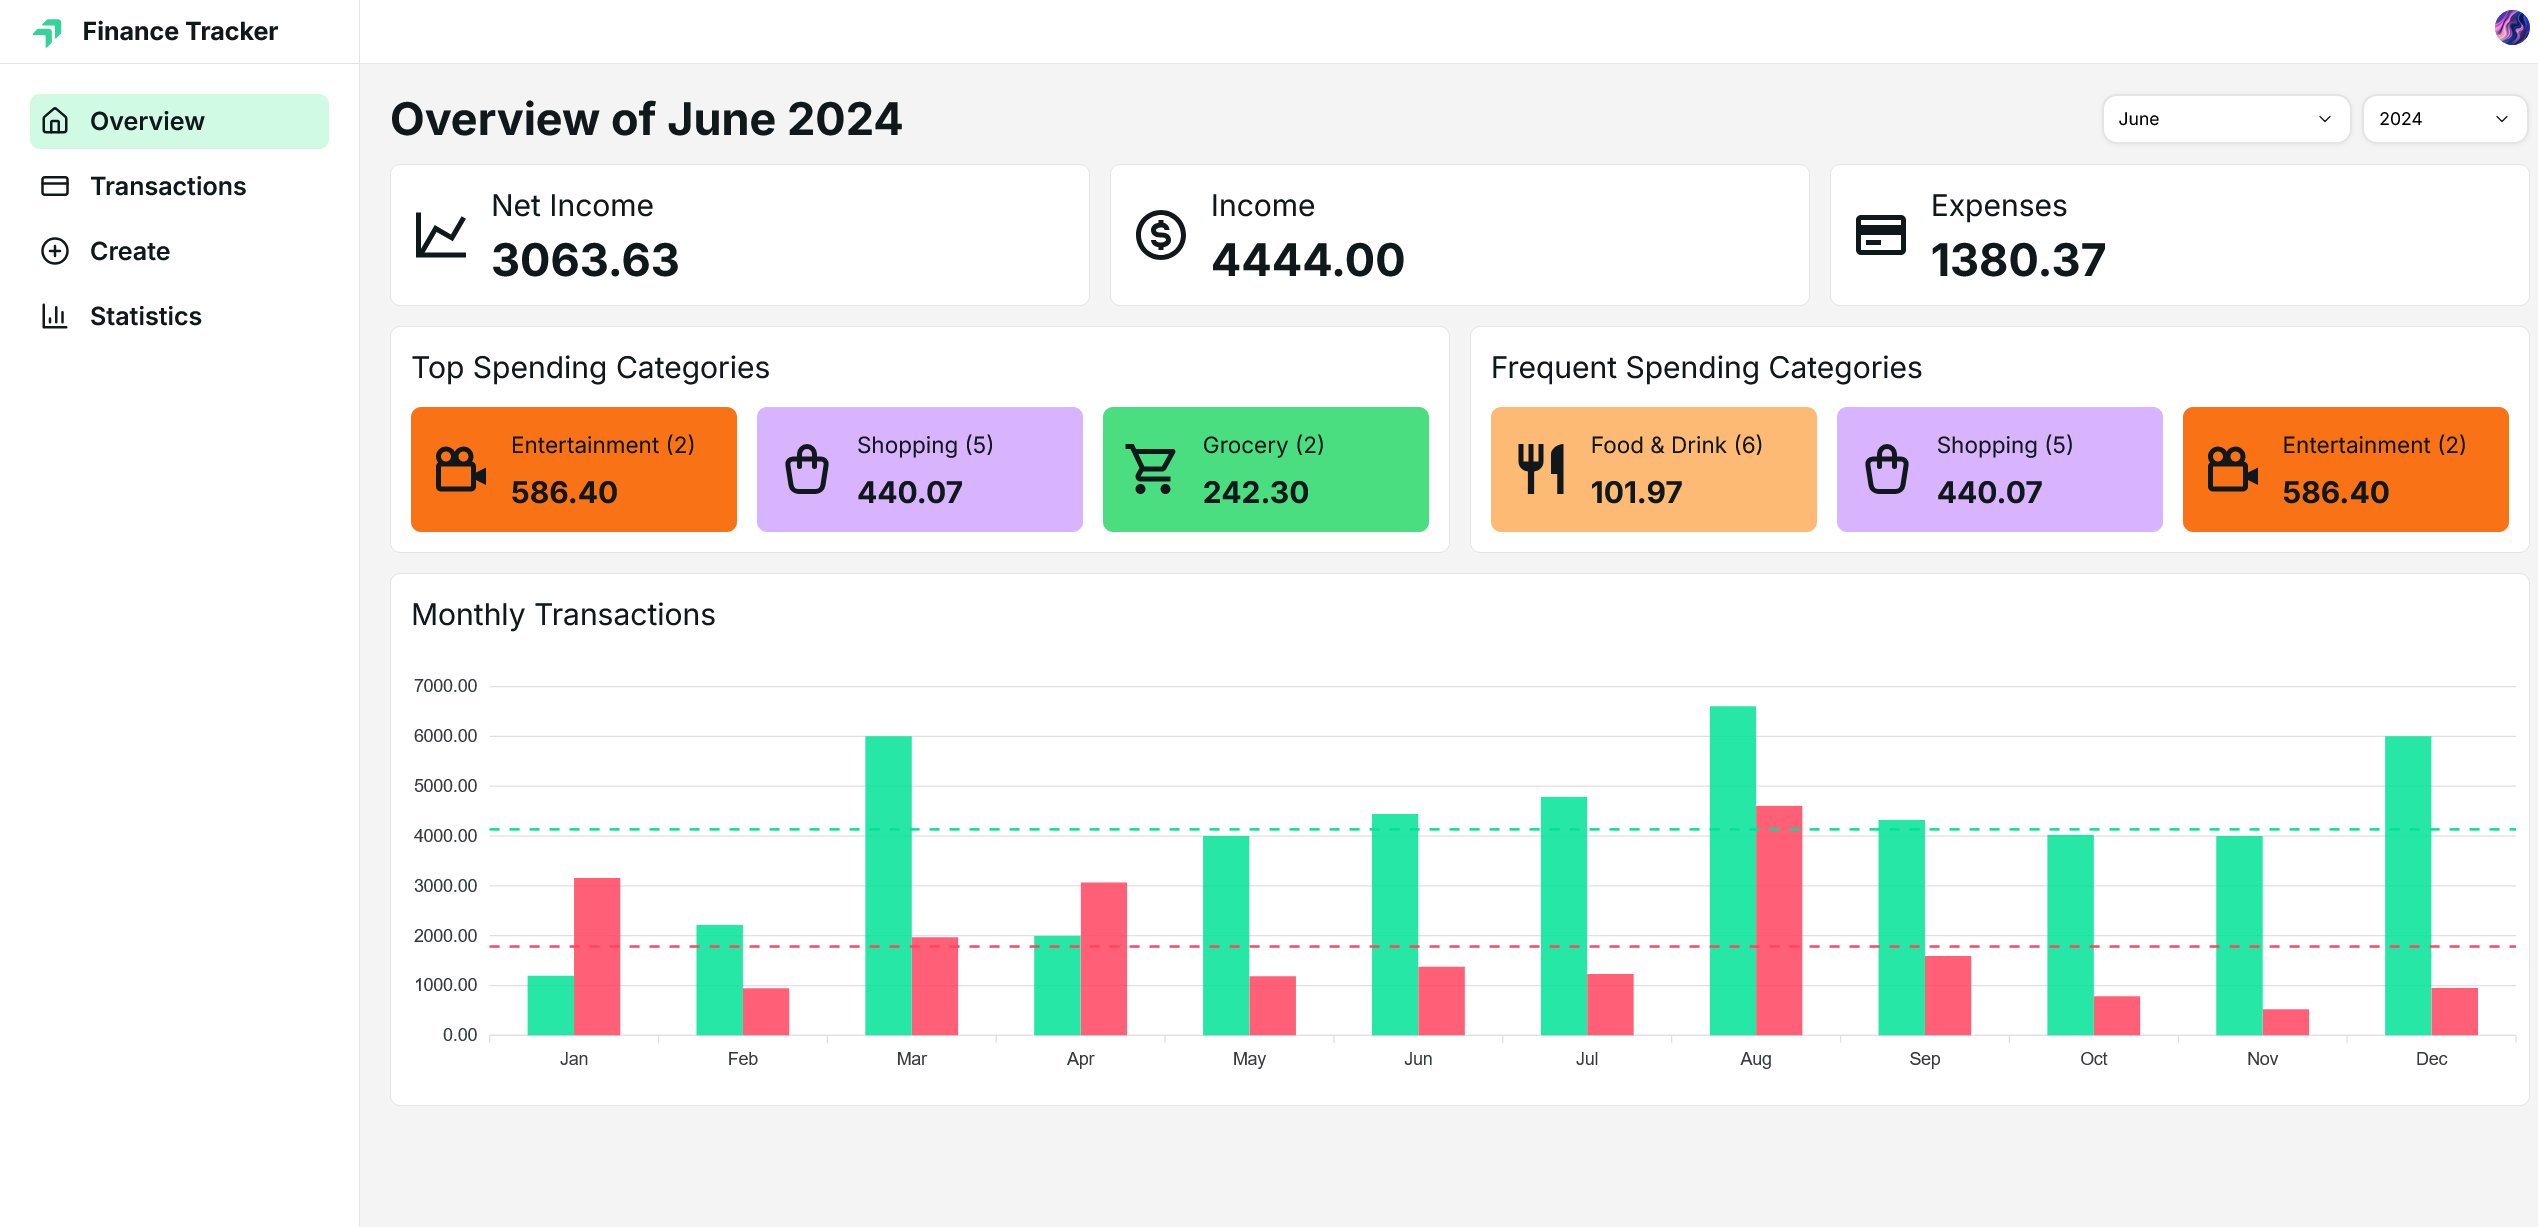
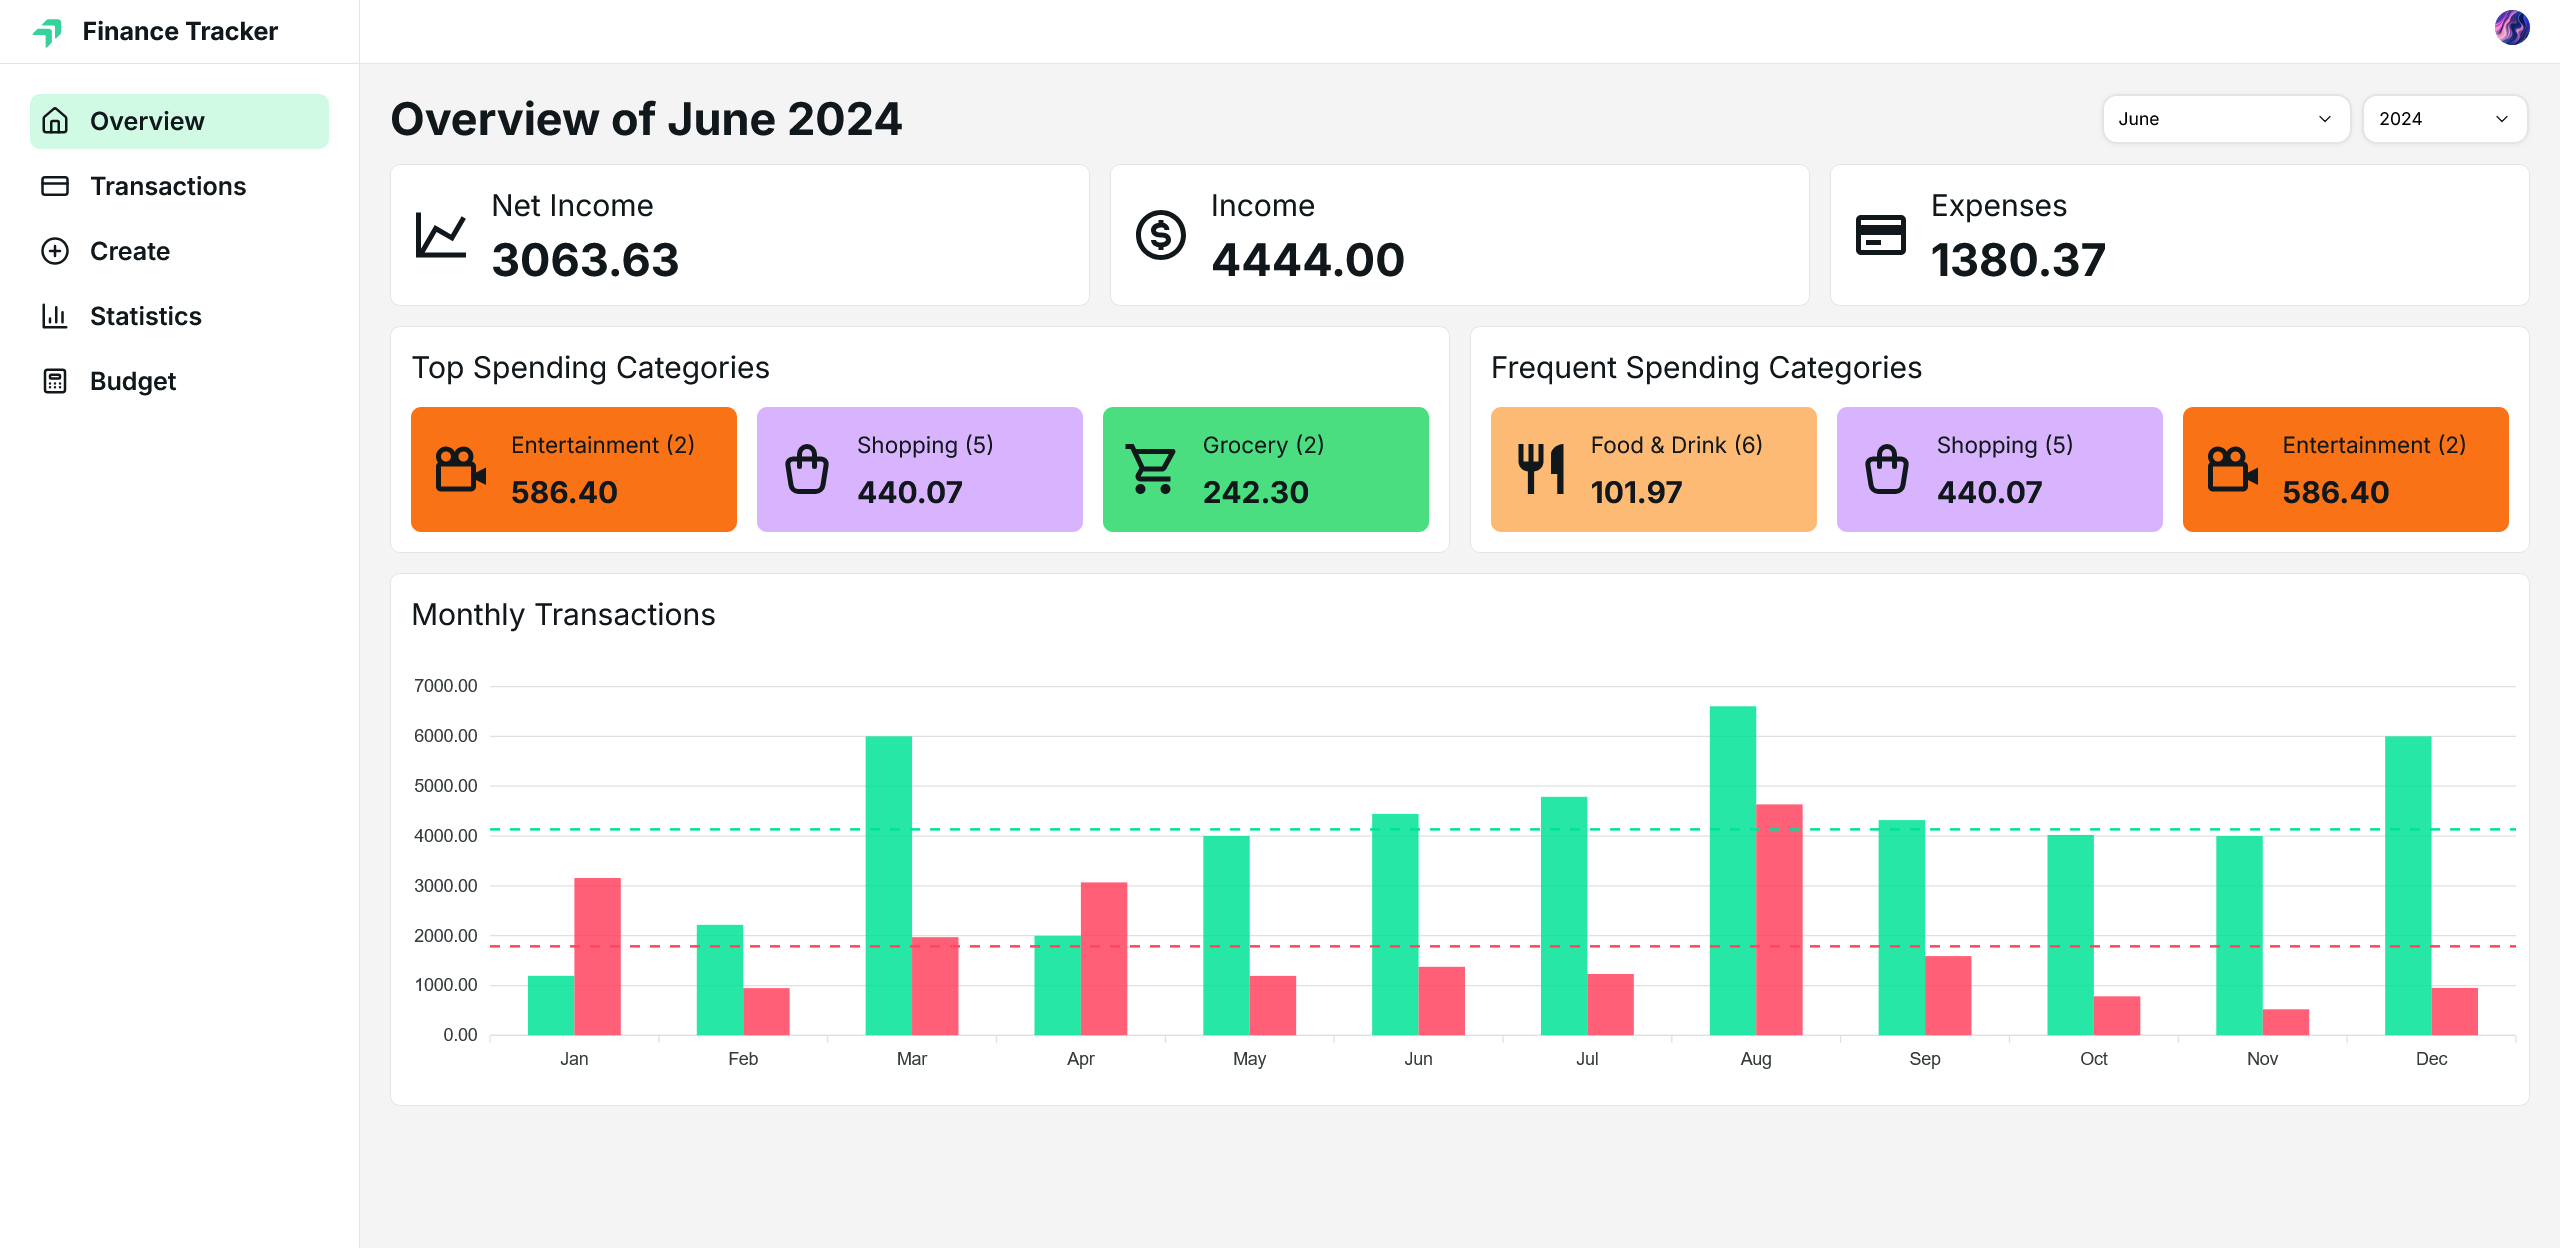
🍱 Update overview img and add budget feature to landing

diff --git a/frontend/app/components/landing/hero.tsx b/frontend/app/components/landing/hero.tsx
@@ -222,6 +222,11 @@ const Features = () => {
             icon: 'tabler:file-type-csv',
             title: 'Import/Export with CSV',
             description: 'Easily import or export your transactions with CSV files'
+        },
+        {
+            icon: 'tabler:calculator',
+            title: 'Budgeting',
+            description: 'Set monthly budget targets and track your spending'
         }
     ];
 
